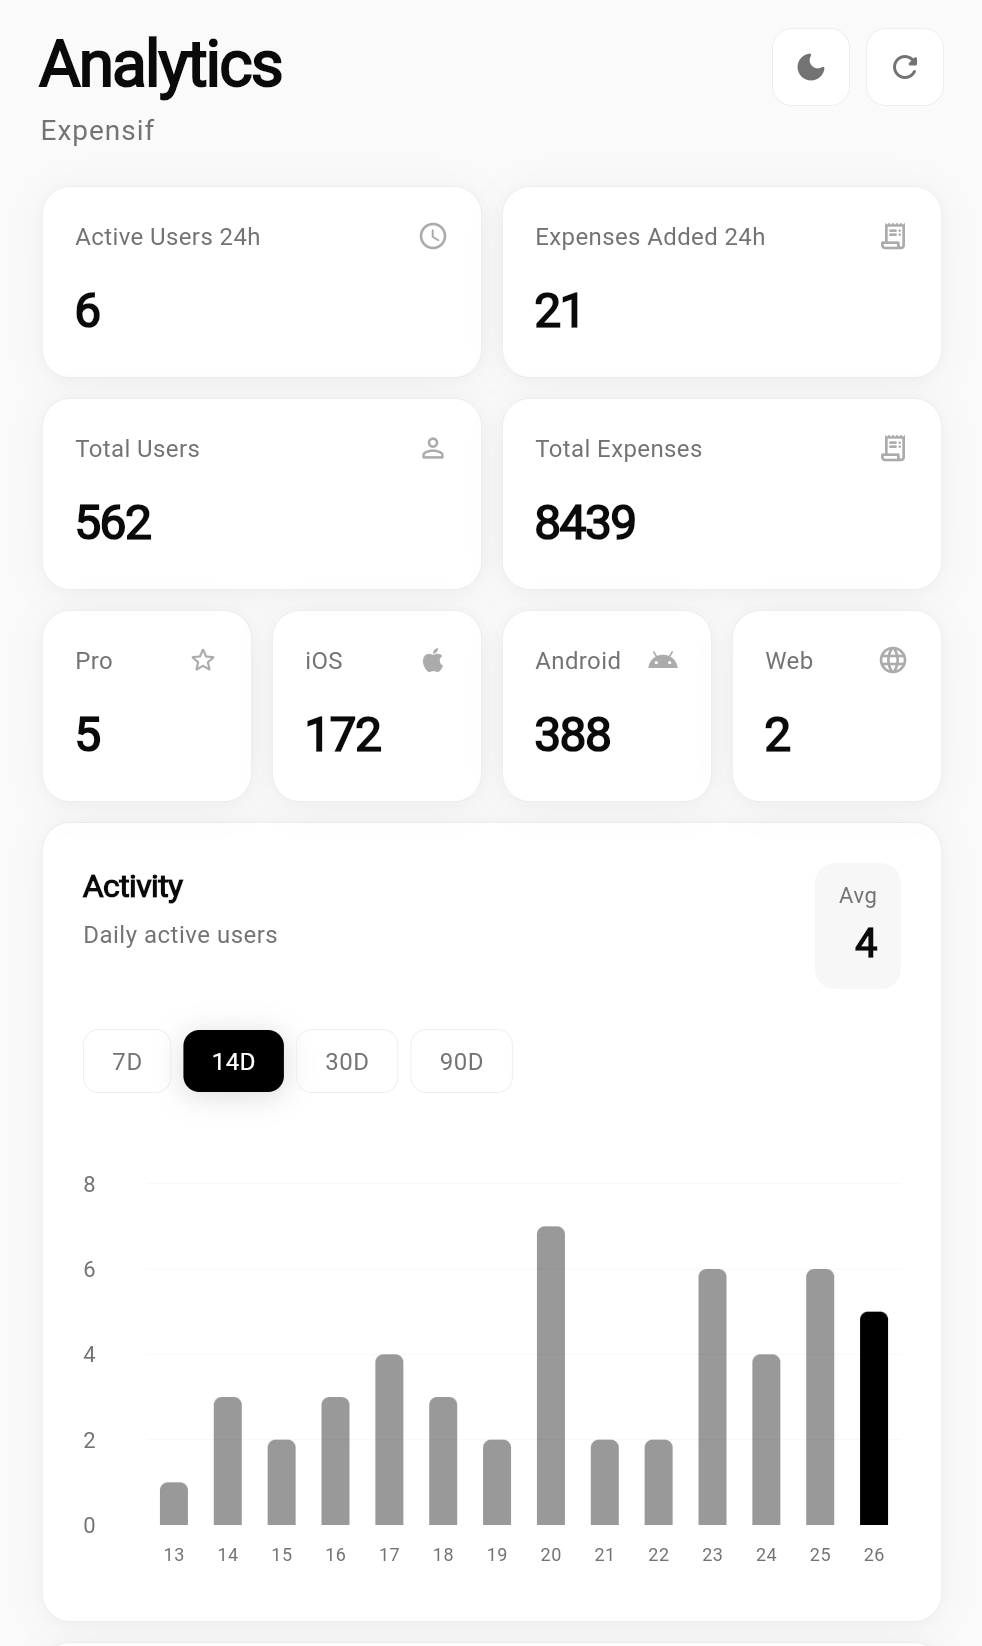
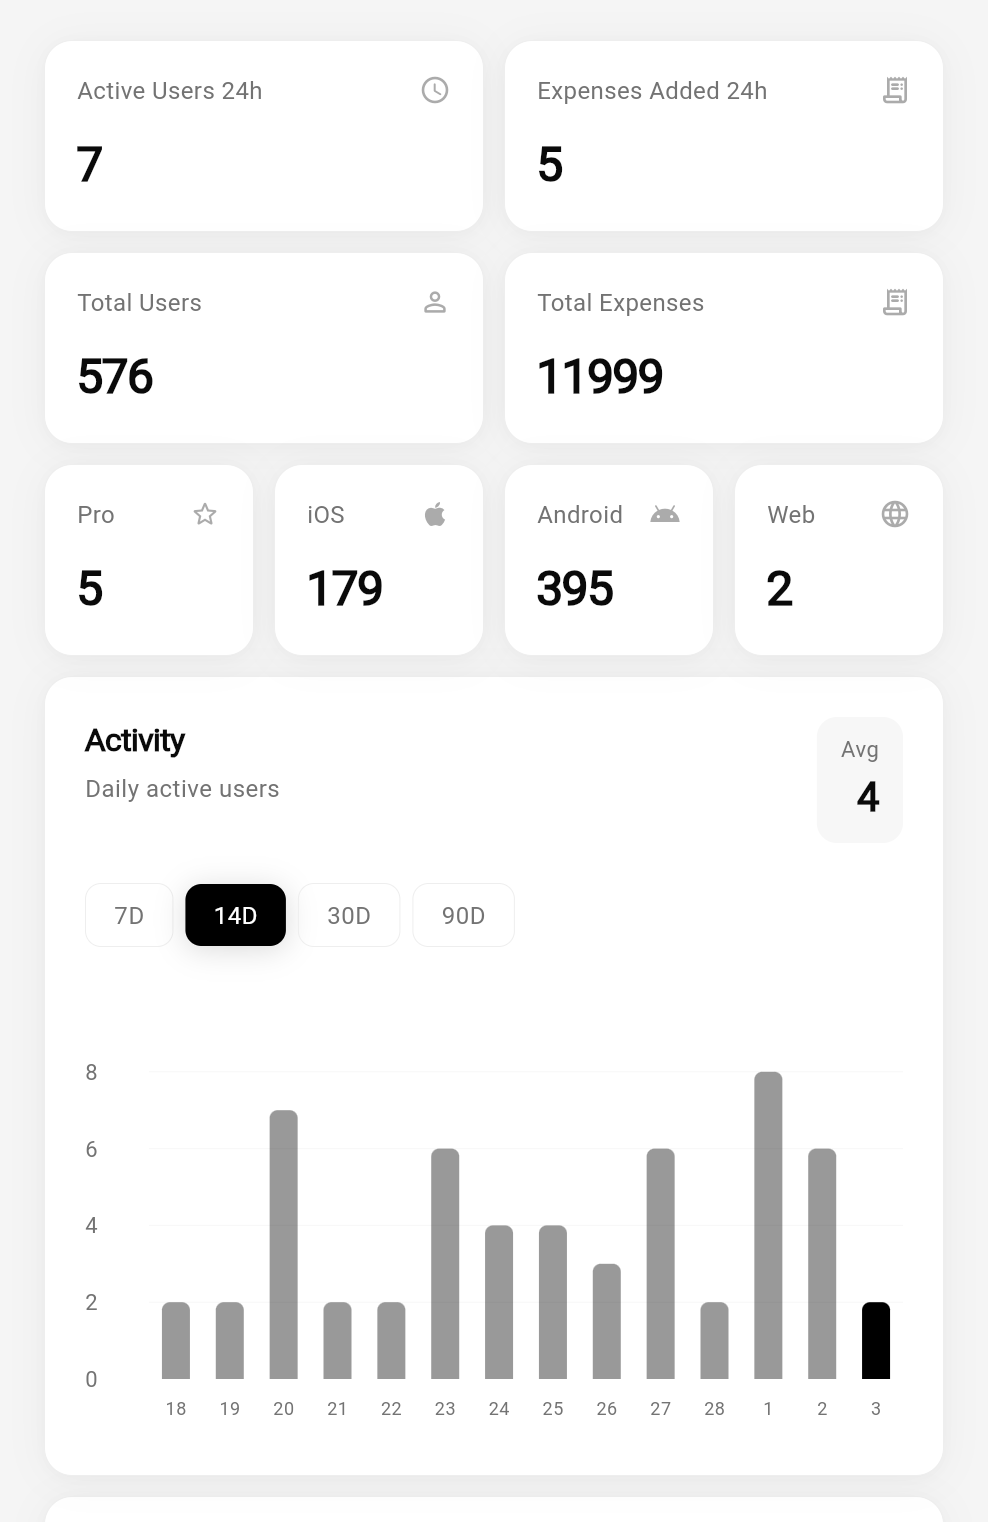
Ep 3: Fix app card layout and add linked app titles
- Fix analytics image stretching in app card image rows
- Match demo video height to analytics image using absolute positioning
- Link app titles (h3) and demo figcaptions to landing pages
- Update analytics images

diff --git a/roadto1k/ep3/index.html b/roadto1k/ep3/index.html
@@ -290,6 +290,37 @@
             color:var(--text-muted);
         }
 
+        /* app cards */
+        .app-card{
+            margin-bottom:20px;
+        }
+
+        .app-updates{
+            margin-top:8px;
+            padding:12px 14px;
+            border-radius:var(--border-radius);
+            background:var(--surface-hover);
+            border:1px solid var(--border);
+        }
+
+        .app-updates p{
+            margin-bottom:6px;
+        }
+
+        .app-updates p:last-child{
+            margin-bottom:0;
+        }
+
+        .update-label{
+            display:inline-block;
+            font-size:.7rem;
+            font-weight:600;
+            text-transform:uppercase;
+            letter-spacing:.04em;
+            color:var(--text-muted);
+            margin-right:6px;
+        }
+
         /* signoff section */
         .signoff{
             margin-top:26px;
@@ -340,6 +371,33 @@
 
         .image-row .episode-image{
             margin:0;
+            display:flex;
+            flex-direction:column;
+        }
+
+        .image-row .episode-image video{
+            flex:1;
+            min-height:0;
+            object-fit:contain;
+        }
+
+        .app-card .image-row .episode-image:first-child{
+            position:relative;
+            overflow:hidden;
+        }
+        .app-card .image-row .episode-image:first-child video{
+            position:absolute;
+            top:0;
+            left:0;
+            right:0;
+            bottom:33px;
+            height:calc(100% - 33px);
+            object-fit:contain;
+        }
+        .app-card .image-row .episode-image:first-child figcaption{
+            margin-top:auto;
+            position:relative;
+            z-index:1;
         }
 
         /* stats grid */
@@ -434,7 +492,7 @@
 
         <main class="episode-body">
             <p class="intro-highlight">
-                Released a new game, <a href="https://blinkbattle.gg" target="_blank" rel="noopener noreferrer">Blink Battle</a>. $1k MRR is the goal. These are the 4 apps I'm focusing on.
+                $1k MRR is the goal. These are the 4 apps I'm focusing on moving forward.
             </p>
 
             <div class="image-row" style="grid-template-columns:repeat(4, 1fr);">
@@ -466,11 +524,103 @@
 
             <!-- MRR -->
             <div class="divider"></div>
-            <h2>MRR = $18/month <span style="font-weight:400; font-size:.6em; color:var(--text-muted);">as of 26 Feb 2026</span></h2>
+            <h2>MRR = $18/month <span style="font-weight:400; font-size:.6em; color:var(--text-muted);"> (26 Feb 2026)</span></h2>
 
-            <p>To grow this I need to understand my users better. So I built analytics dashboards for each app.</p>
+            <p>Revenue comes from rewarded ads (via Google AdMob) and subscriptions/one-time purchases (via RevenueCat). No banner ads.</p>
+
+            <!-- THE APPS -->
+            <div class="divider"></div>
+
+            <div class="app-card">
+                <h3>&#x1F525; <a href="https://ritualz.app" target="_blank" rel="noopener noreferrer">Ritualz</a> <span style="font-weight:400; font-size:.75em; color:var(--text-muted);">Minimal Habit Tracker</span></h3>
+                <p>Beautiful heatmap to visualise your habits, plus home screen widgets.</p>
+                <div class="image-row">
+                    <figure class="episode-image" style="background:var(--bg);">
+                        <video autoplay loop muted playsinline style="width:100%; object-fit:contain;">
+                            <source src="ritualz_demo_dark.mp4" type="video/mp4">
+                        </video>
+                        <figcaption style="background:var(--surface-hover);"><a href="https://ritualz.app" target="_blank" rel="noopener noreferrer">Ritualz</a> App</figcaption>
+                    </figure>
+                    <figure class="episode-image" style="border-radius:8px;">
+                        <img class="theme-img-light" src="ritualz_analytics_light.png" alt="Ritualz analytics" loading="lazy">
+                        <img class="theme-img-dark" src="ritualz_analytics_dark.png" alt="Ritualz analytics" loading="lazy">
+                        <figcaption>Analytics</figcaption>
+                    </figure>
+                </div>
+                <div class="app-updates">
+                    <p>Added social features: share a habit using a code to track it together as a group, a streak leaderboard, and sharing your heatmap as an image. Building towards a natural viral loop. Now I need to actually show these off. Update the landing page, market it properly.</p>
+                </div>
+            </div>
+
+            <div class="app-card">
+                <h3>&#x1F4B3; <a href="https://expensif.app" target="_blank" rel="noopener noreferrer">Expensif</a> <span style="font-weight:400; font-size:.75em; color:var(--text-muted);">Personal Finance</span></h3>
+                <p>Premium UI with overview grids and graphs. Smart CSV import for any bank data.</p>
+                <div class="image-row">
+                    <figure class="episode-image" style="background:var(--bg);">
+                        <video autoplay loop muted playsinline style="width:100%; object-fit:contain;">
+                            <source src="expensif_demo_dark.mp4" type="video/mp4">
+                        </video>
+                        <figcaption style="background:var(--surface-hover);"><a href="https://expensif.app" target="_blank" rel="noopener noreferrer">Expensif</a> App</figcaption>
+                    </figure>
+                    <figure class="episode-image" style="border-radius:8px;">
+                        <img class="theme-img-light" src="expensif_analytics_light.png" alt="Expensif analytics" loading="lazy">
+                        <img class="theme-img-dark" src="expensif_analytics_dark.png" alt="Expensif analytics" loading="lazy">
+                        <figcaption>Analytics</figcaption>
+                    </figure>
+                </div>
+                <div class="app-updates">
+                    <p>Evolved from expense tracking to full income and expense tracking. Built a smart CSV import using the Claude API to handle any bank format. App is solid now, just need to get it in front of more people.</p>
+                </div>
+            </div>
+
+            <div class="app-card">
+                <h3>&#x1F4AC; <a href="https://tuteee.app" target="_blank" rel="noopener noreferrer">Tuteee</a> <span style="font-weight:400; font-size:.75em; color:var(--text-muted);">AI Math Tutor</span></h3>
+                <p>100-level game to master math with a personal AI tutor.</p>
+                <div class="image-row">
+                    <figure class="episode-image" style="background:var(--bg);">
+                        <video autoplay loop muted playsinline style="width:100%; object-fit:contain;">
+                            <source src="tuteee_demo_dark.mp4" type="video/mp4">
+                        </video>
+                        <figcaption style="background:var(--surface-hover);"><a href="https://tuteee.app" target="_blank" rel="noopener noreferrer">Tuteee</a> App</figcaption>
+                    </figure>
+                    <figure class="episode-image" style="border-radius:8px;">
+                        <img class="theme-img-light" src="tuteee_analytics_light.png" alt="Tuteee analytics" loading="lazy">
+                        <img class="theme-img-dark" src="tuteee_analytics_dark.png" alt="Tuteee analytics" loading="lazy">
+                        <figcaption>Analytics</figcaption>
+                    </figure>
+                </div>
+                <div class="app-updates">
+                    <p>Added a graph input feature so users can draw and input graphs directly. Need to get it in front of actual students now and watch how they use it.</p>
+                </div>
+            </div>
+
+            <div class="app-card">
+                <h3>&#x1F3AE; <a href="https://blinkbattle.gg" target="_blank" rel="noopener noreferrer">Blink Battle</a> <span style="font-weight:400; font-size:.75em; color:var(--text-muted);">Game</span></h3>
+                <p>Inspired by StarCraft. You get 3 lives.</p>
+                <div class="image-row">
+                    <figure class="episode-image" style="background:var(--bg);">
+                        <video autoplay loop muted playsinline style="width:100%; object-fit:contain;">
+                            <source src="blink_battle_demo_final.mp4" type="video/mp4">
+                        </video>
+                        <figcaption style="background:var(--surface-hover);"><a href="https://blinkbattle.gg" target="_blank" rel="noopener noreferrer">Blink Battle</a> App</figcaption>
+                    </figure>
+                    <figure class="episode-image" style="border-radius:8px;">
+                        <img class="theme-img-light" src="blinkbattle_analytics_light.png" alt="Blink Battle analytics" loading="lazy">
+                        <img class="theme-img-dark" src="blinkbattle_analytics_dark.png" alt="Blink Battle analytics" loading="lazy">
+                        <figcaption>Analytics</figcaption>
+                    </figure>
+                </div>
+                <div class="app-updates">
+                    <p>Just launched. Testing one-time in-app purchases for lives, or watch an ad to earn them. Way too hard right now though. Users can't get past level 2. Need to make it easier and more rewarding early on.</p>
+                </div>
+            </div>
 
             <!-- ANALYTICS -->
+            <div class="divider"></div>
+            <h2>Analytics</h2>
+
+            <p>To grow I need to understand my users better. So I built analytics dashboards for each app.</p>
+
             <div class="image-row" style="grid-template-columns:repeat(4, 1fr);">
                 <figure class="episode-image" style="border-radius:8px;">
                     <img class="theme-img-light" src="ritualz_analytics_light.png" alt="Ritualz analytics" loading="lazy">
@@ -513,16 +663,6 @@
                     });
                 })();
             </script>
-
-            <!-- TECH STACK -->
-            <div class="divider"></div>
-            <h2>Tech Stack</h2>
-            <ul>
-                <li><strong>Flutter</strong> + native iOS/Android</li>
-                <li><strong>Supabase + Firebase</strong></li>
-                <li><strong>RevenueCat</strong> - subscriptions, one time payments</li>
-                <li><strong>Google AdMob</strong></li>
-            </ul>
 
             <!-- AI -->
             <div class="divider"></div>
